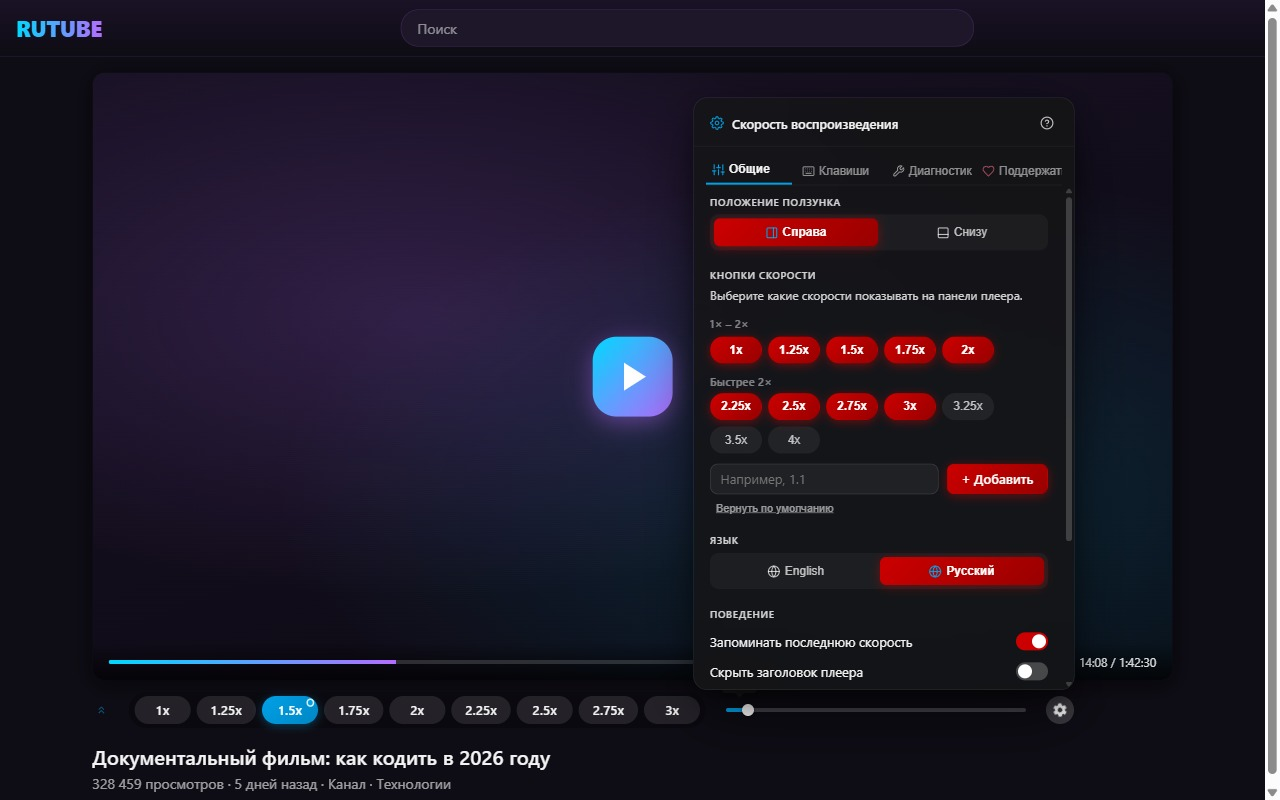
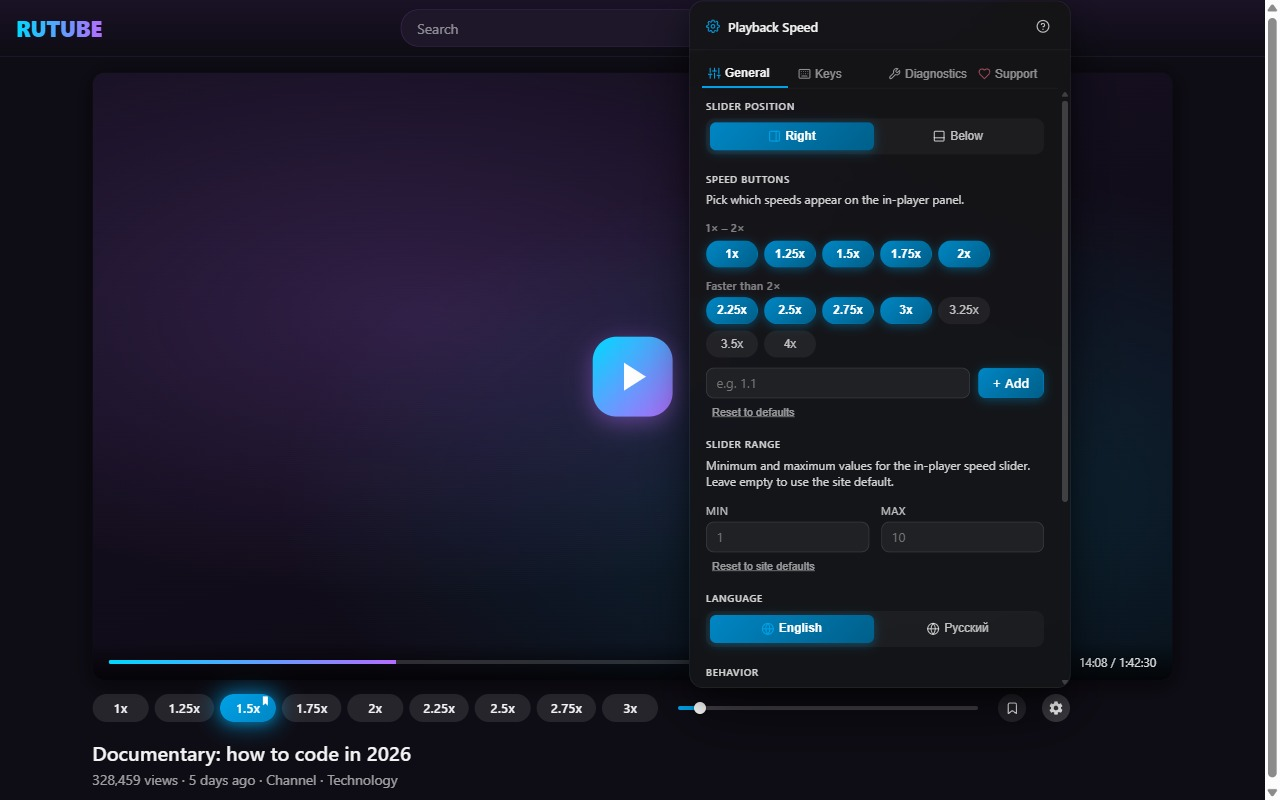
fix(modal): RuTube accent now shows correctly in settings (0.3.20)
Settings modal on RuTube was showing YouTube red instead of RuTube
cyan/blue (active "Right" tab, selected preset pills, "+ Add" button,
toggle switches, "Russian" language pill — all red).

Root cause: --vs-menu-active-bg (and the glow shadows / --vs-toggle-
on) were declared at :root with values like:
    linear-gradient(135deg, var(--vs-accent-dark) 0%, ...)
Chrome substitutes nested var() inside a custom-property value at
the DECLARING element's cascade, not at the consuming descendant's.
So at :root the gradient froze with the default --vs-accent-dark
(#cc0000 red) and descendants of .vs-panel[data-vs-site="rutube"]
inherited the already-resolved-with-red gradient as a string,
never seeing their panel-scoped blue override.

Fix: re-declare every aggregate token inside the per-site selector
itself, alongside the --vs-accent-* overrides. Substitution then
happens at the panel's own cascade where --vs-accent-dark is the
site colour, and inheritance carries the right gradient down.

Side fixes (store screenshots regenerated):
  - tests/store-screenshots/mock-youtube.html: added dark="true" +
    data-theme="dark" so detectAndApplyTheme picks 'dark' (was
    falling through to 'light' default — that turned chip BG into
    near-invisible black 6%, only the active red pill was visible).
    Replaced div.yt-title with h1 so the panel's hydration heuristic
    matches and the visibility-pending class is removed in time.
[…]

diff --git a/src/ui/styles.ts b/src/ui/styles.ts
@@ -299,10 +299,39 @@ html[data-vs-theme="light"] {
    at BOTH .vs-panel scope (in-player UI) and html scope (popup, where
    no panel exists — popup main.ts writes data-vs-site onto the html
    element based on the active tab). */
+/* Per-site palette. Each rule MUST also re-declare every aggregate
+   token that references --vs-accent-* (--vs-menu-active-bg, the
+   glow shadows, --vs-toggle-on). Why: Chrome substitutes var()
+   inside a custom property's value at the DECLARING element, not
+   at the consuming descendant. So if --vs-menu-active-bg is only
+   declared on :root, its computed value freezes with :root's
+   default --vs-accent-dark (red) and descendants inherit the
+   red-resolved string even when their own --vs-accent-dark is
+   overridden. By restating the aggregates inside the per-site
+   selector — same scope as the override — we get a fresh
+   substitution that picks up the site's accent. */
 .vs-panel[data-vs-site="rutube"],
-html[data-vs-site="rutube"]  { --vs-accent: #00A1E7; --vs-accent-dark: #0086c4; --vs-accent-darker: #005f8a; --vs-accent-rgb: 0,161,231; }
+html[data-vs-site="rutube"] {
+  --vs-accent: #00A1E7;
+  --vs-accent-dark: #0086c4;
+  --vs-accent-darker: #005f8a;
+  --vs-accent-rgb: 0, 161, 231;
+  --vs-menu-active-bg: linear-gradient(135deg, var(--vs-accent-dark) 0%, var(--vs-accent-darker) 100%);
+  --vs-menu-active-glow: 0 2px 10px rgba(var(--vs-accent-rgb), 0.35);
+  --vs-menu-active-glow-hover: 0 3px 14px rgba(var(--vs-accent-rgb), 0.5);
+  --vs-toggle-on: var(--vs-accent-dark);
+}
 .vs-panel[data-vs-site="youtube"],
-html[data-vs-site="youtube"] { --vs-accent: #ff0000; --vs-accent-dark: #cc0000; --vs-accent-darker: #990000; --vs-accent-rgb: 255,0,0; }
+html[data-vs-site="youtube"] {
+  --vs-accent: #ff0000;
+  --vs-accent-dark: #cc0000;
+  --vs-accent-darker: #990000;
+  --vs-accent-rgb: 255, 0, 0;
+  --vs-menu-active-bg: linear-gradient(135deg, var(--vs-accent-dark) 0%, var(--vs-accent-darker) 100%);
+  --vs-menu-active-glow: 0 2px 10px rgba(var(--vs-accent-rgb), 0.35);
+  --vs-menu-active-glow-hover: 0 3px 14px rgba(var(--vs-accent-rgb), 0.5);
+  --vs-toggle-on: var(--vs-accent-dark);
+}
 
 /* The panel: TRANSPARENT flex row attached just below the player. No
    capsule background -- buttons and the gear handle their own visual

diff --git a/tests/store-screenshots/mock-rutube.html b/tests/store-screenshots/mock-rutube.html
@@ -1,5 +1,5 @@
 <!DOCTYPE html>
-<html lang="ru" data-vs-theme="dark">
+<html lang="en" data-vs-theme="dark">
 <head>
 <meta charset="UTF-8">
 <title>RuTube — store screenshot host</title>
@@ -100,7 +100,7 @@
 <body>
 <div class="rt-masthead">
   <div class="rt-logo">RUTUBE</div>
-  <div class="rt-search">Поиск</div>
+  <div class="rt-search">Search</div>
 </div>
 
 <div id="primary">
@@ -113,8 +113,8 @@
     </div>
   </section>
   <div class="videoTitleSection">
-    <h1 class="rt-title">Документальный фильм: как кодить в 2026 году</h1>
-    <div class="rt-meta">328 459 просмотров · 5 дней назад · Канал · Технологии</div>
+    <h1 class="rt-title">Documentary: how to code in 2026</h1>
+    <div class="rt-meta">328,459 views · 5 days ago · Channel · Technology</div>
   </div>
 </div>
 </body>

diff --git a/tests/store-screenshots/mock-youtube.html b/tests/store-screenshots/mock-youtube.html
@@ -1,5 +1,5 @@
 <!DOCTYPE html>
-<html lang="en" data-vs-theme="dark">
+<html lang="en" data-vs-theme="dark" dark="true" data-theme="dark">
 <head>
 <meta charset="UTF-8">
 <title>YouTube — store screenshot host</title>
@@ -125,7 +125,7 @@
   </div>
   <ytd-watch-metadata>
     <div id="top-row">
-      <div class="yt-title">How playback speed control turns long videos into 30-minute briefings</div>
+      <h1 class="yt-title">How playback speed control turns long videos into 30-minute briefings</h1>
       <div class="yt-meta">142,857 views · 3 days ago · Channel · Productivity</div>
     </div>
   </ytd-watch-metadata>

diff --git a/CHANGELOG.md b/CHANGELOG.md
@@ -5,6 +5,32 @@ Format follows [Keep a Changelog](https://keepachangelog.com/en/1.1.0/) with [Se
 
 ---
 
+## [0.3.20] — 2026-05-10
+
+### Bug fixes
+
+- **Settings modal showed RED accent on RuTube** (should be RuTube
+  cyan/blue). The bug was visible on the active "Right" tab, every
+  selected speed-preset pill, the "+ Add" button, the toggle switches
+  and the "Russian" language pill — all showed YouTube red even
+  though the panel correctly applied the per-site palette.
+
+  Root cause was a CSS-variable indirection trap. `--vs-menu-active-bg`
+  (and the glow shadows / `--vs-toggle-on`) were declared at `:root`
+  with values like `linear-gradient(135deg, var(--vs-accent-dark) 0%,
+  var(--vs-accent-darker) 100%)`. Chrome substitutes nested `var()`
+  inside a custom-property value at the **declaring element's**
+  cascade, NOT at the consuming descendant's. So at `:root` the
+  gradient froze with the default `--vs-accent-dark` (#cc0000 red),
+  and descendants of `.vs-panel[data-vs-site="rutube"]` inherited
+  the already-resolved-with-red gradient as a string — never seeing
+  their panel-scoped blue override.
+
+  Fix: re-declare every aggregate token inside the per-site selector
+  itself, alongside the `--vs-accent-*` overrides. Substitution then
+  happens at the panel's own cascade where `--vs-accent-dark` is the
+  site colour, and inheritance carries the right gradient down.
+
 ## [0.3.19] — 2026-05-10
 
 ### Visual
